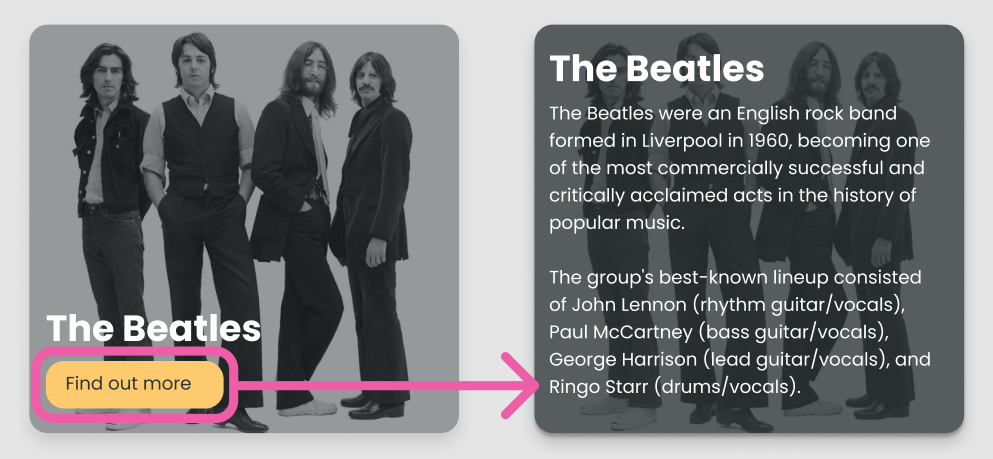
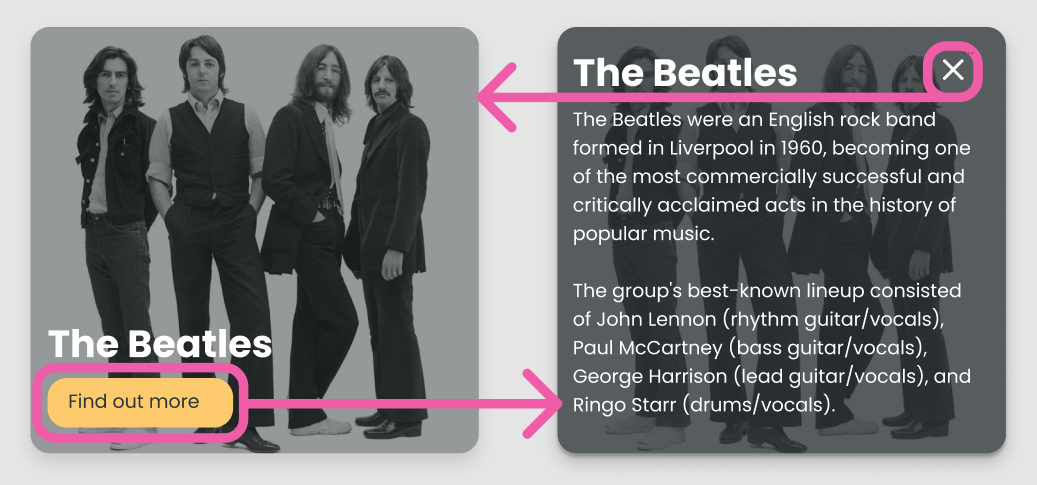
(feat): Finished the first pass of the challenge.md

diff --git a/src/components/DiscoverArtistCard/DiscoverArtistCard.jsx b/src/components/DiscoverArtistCard/DiscoverArtistCard.jsx
@@ -1,6 +1,8 @@
 import React, { useState } from "react";
 import "./DiscoverArtistCard.scss";
+
 import Button from "../Button/Button";
+import whiteCross from "../../assets/images/white-cross.png";
 
 const DiscoverArtistCard = props => {
   const { imgSrc, title, text } = props;
@@ -10,8 +12,8 @@ const DiscoverArtistCard = props => {
     setShowText(!showText);
   };
 
-  let discoverCardContentJSX = (
-    <div className="content">
+  let contentJSX = (
+    <div className="content content--button">
       <h3>{title}</h3>
       <div onClick={handleClick}>
         <Button buttonText={"Find out more"} isSecondary={true} />
@@ -20,8 +22,9 @@ const DiscoverArtistCard = props => {
   );
 
   if (showText) {
-    discoverCardContentJSX = (
-      <div className="content--text" onClick={handleClick}>
+    contentJSX = (
+      <div className="content content--text">
+        <img src={whiteCross} className="content__cross" onClick={handleClick} />
         <h3>{title}</h3>
         {text.split(".").map(sentence => (
           <p>{sentence + "."}</p>
@@ -33,7 +36,7 @@ const DiscoverArtistCard = props => {
   return (
     <div className="discoverArtistCard">
       <img src={imgSrc} />
-      {discoverCardContentJSX}
+      {contentJSX}
     </div>
   );
 };

diff --git a/src/components/DiscoverArtistCard/DiscoverArtistCard.scss b/src/components/DiscoverArtistCard/DiscoverArtistCard.scss
@@ -15,28 +15,36 @@
     position: absolute;
     z-index: 1;
     color: $color-white;
-    font-size: 25px;
-    bottom: 20px;
-    left: 20px;
 
     & > * {
       margin: 10px 0;
     }
 
+    h3 {
+      margin: 20px 0;
+      font-size: 25px;
+    }
+
+    &__cross {
+      height: 25px;
+      width: 25px;
+      position: absolute;
+      right: 20px;
+      top: 15px;
+    }
+
+    &--button {
+      bottom: 20px;
+      left: 20px;
+    }
+
     &--text {
       height: 100%;
       padding: 0px 20px;
-      color: $color-white;
-      position: absolute;
-      z-index: 1;
       top: 0;
       overflow-y: auto;
       background: rgba($color-black, 0.8);
       white-space: pre-line;
-
-      h3 {
-        font-size: 25px;
-      }
     }
   }
   // OVERLAY

diff --git a/notes/challenge/challenge.md b/notes/challenge/challenge.md
@@ -4,10 +4,29 @@ In VS Code right click on the challenge.md file and click "Open Preview".
 
 The aim of this challenge is to get you to practice using state to show/hide some JSX.
 
-You will need to update the DiscoverArtistCard so that when the button is clicked it causes some state to change. This will cause it to show the title, cross and text about the artist rather then the title and the button.
+You will need to update the DiscoverArtistCard so that when the button is clicked it causes the state to change. This will cause it to show the title, cross and text about the artist rather then the title and the button. When the cross is clicked it should set it back to its original state.
 
 In the image below you can see the current component and the what it needs to look like after the button has been clicked.
 
 <img src="./images/state.PNG" width="600"/>
+
+---
+
+1. Update the DiscoverArtistCard component so it accepts a text prop. Pass the `artist.strBiographyEN` as the value of this prop in App.jsx.
+
+2. Add conditional State to the DiscoverArtistCard.
+
+3. Write a function to toggle the conditional state.
+   e.g. if its true it sets it to false and vice versa.
+
+4. Add the onClick to the `<div>` that the `<Button/>` component is inside. **You will not be able to add it directly to the Button component, we will cover this soon.**
+
+5. The cross is image is in src/assets/images/white-cross.png. Import it to the component.
+
+6. It is up to you to put the rest of the pieces together. Can you get the text, title and cross to show when the state changes? Can you hook up the cross to set the state back?
+
+- _Hint: Look in the SCSS file to see some scss classes you could use for the changes in state_
+
+7. **EXTENSION** Can you tidy up the text? Can you make each sentence of the text its own p tag?
 
 ---
